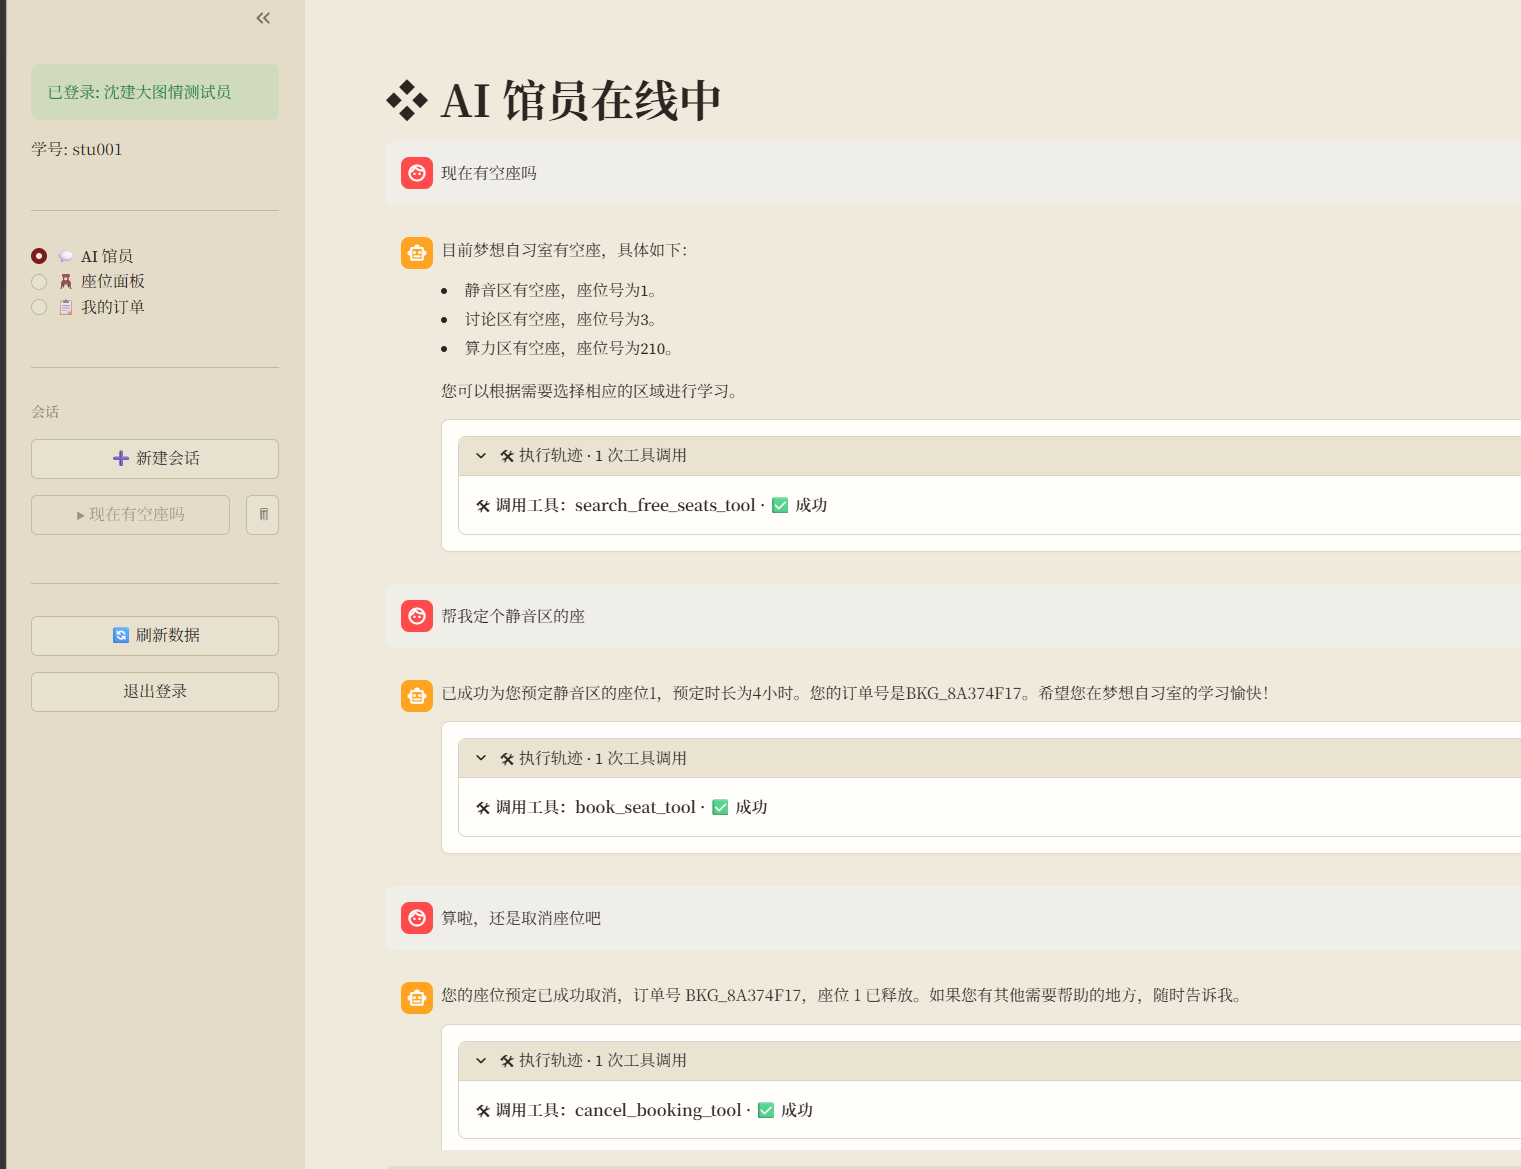
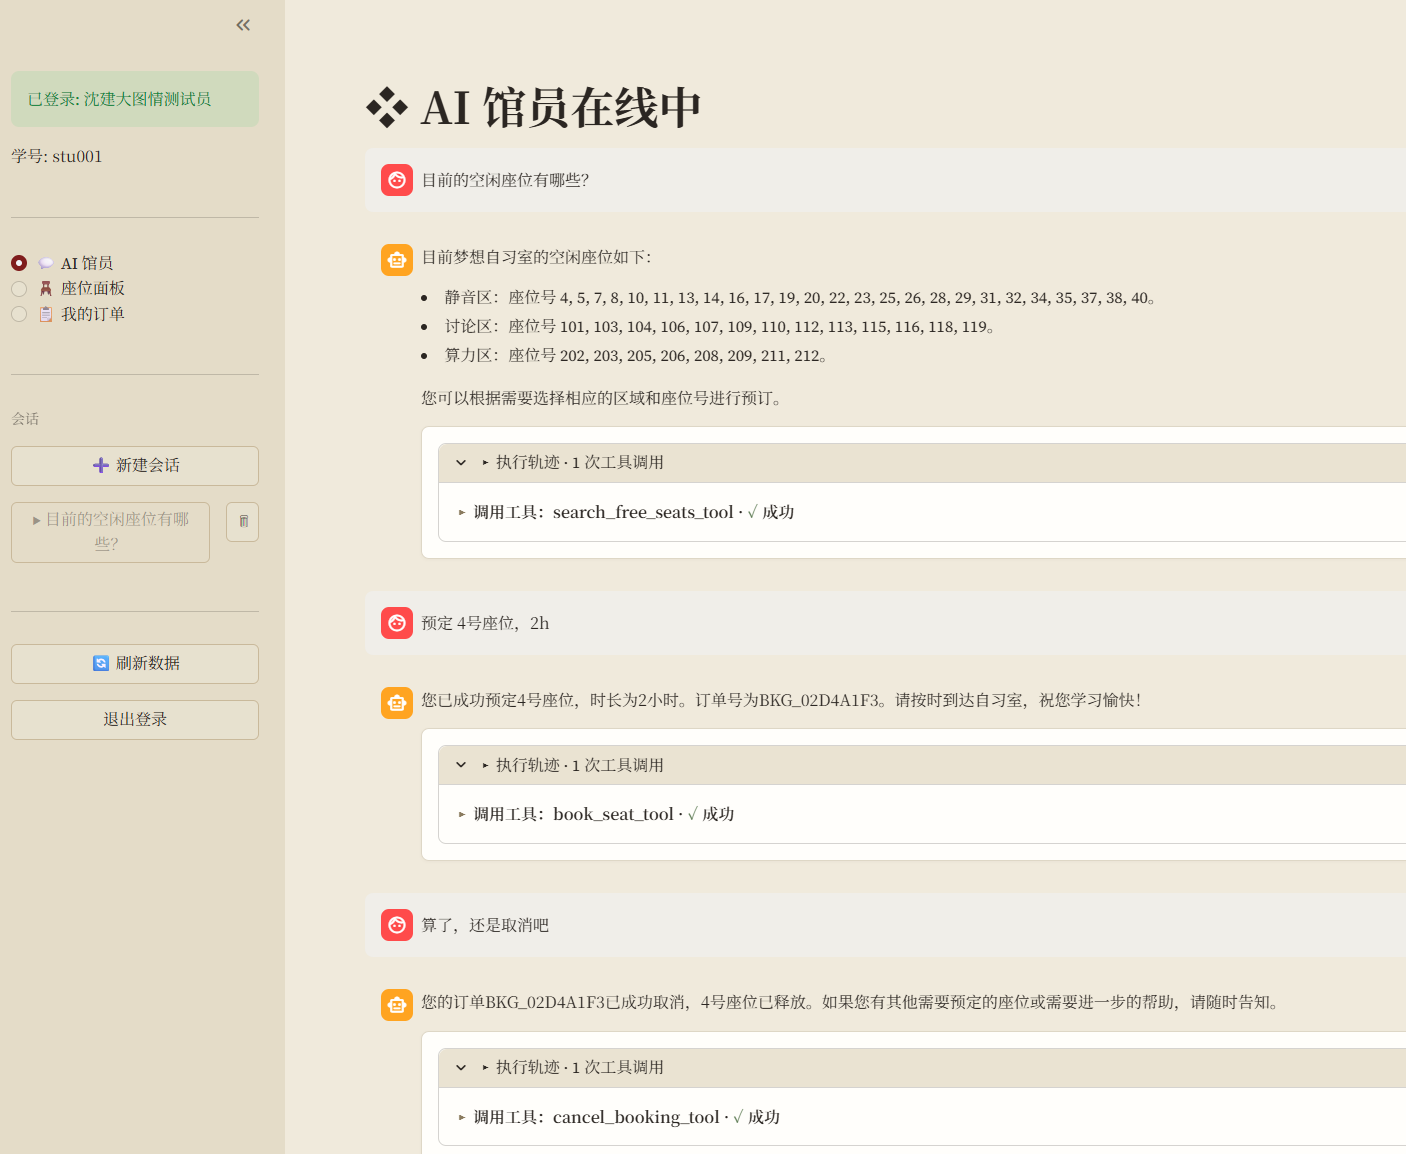
docs: 补齐 5 张演示截图 + 修 README 图片链接（文件名拼写/残缺占位）

diff --git a/README.md b/README.md
@@ -18,7 +18,7 @@
 | **0-LLM 短路**<br>订一个被占座位 → 命中 `resource_conflict`，0 次 LLM 调用直接查表修复 | ![shortcut](docs/images/zero_llm_shortcut.png)           |
 | **越权防护 · 静默拒绝**<br>试图操作他人订单 → 选 `UNRECOVERABLE` 静默拒绝，不泄露资源是否存在 | ![idor](docs/images/idor_silent_reject.png)              |
 | **熔断保护**（提前把 DB 设只读）<br>连续修复失败 → `repair_attempts ≥ 2` 强制终止，转坦白并建议稍后重试 | ![circuit](docs/images/circuit_breaker.png)              |
-| **实时座位面板（72 座）**<br>三区（静音 / 讨论 / 算力）网格，我的 / 空闲 / 已占三态一目了然 | ![seats](docs/images/seat_panel_72.png) *(待补)          |
+| **实时座位面板（72 座）**<br>三区（静音 / 讨论 / 算力）网格，我的 / 空闲 / 已占三态一目了然 | ![seats](docs/images/seat_panel_72.png)                  |
 | **三视图 + 多会话 CRUD**<br>AI 馆员 / 座位 / 我的预约三视图，侧栏会话可切换、可删除 | ![sessions](docs/images/multi_session_crud.png)          |
 
 ------
